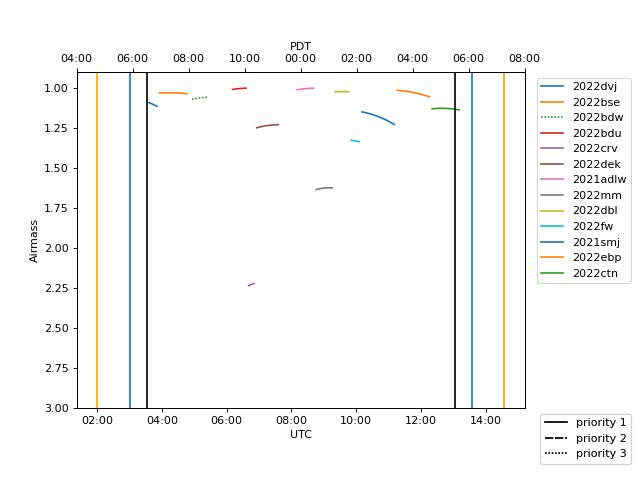
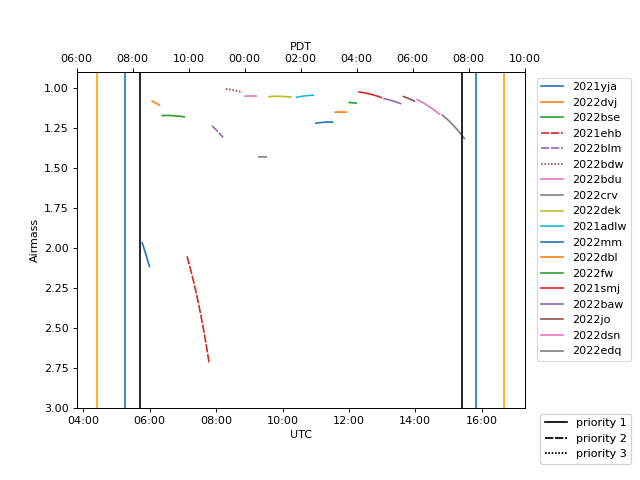
adding NIRES

diff --git a/make_schedule.py b/make_schedule.py
@@ -8,12 +8,15 @@ from astropy.coordinates import get_sun
 from scipy.interpolate import interp1d
 from matplotlib import cm
 import argparse
+import configparser
 
 
 def parse_args():
     parser = argparse.ArgumentParser(description='Schedule targets for the night for Shane (FIRST DRAFT).')
     parser.add_argument('targetlist',
                         help = 'YSE-PZ format schedule with priority column as in example file.')
+    parser.add_argument('instrument',
+            help = 'Instrument. Options: KAST, NIRES')
     parser.add_argument('--date', dest='date',
                         type = Time,
                         help = 'fmt: yyyy-mm-dd. Date of observations. Superseeds taking the time from the filename.')
@@ -32,26 +35,97 @@ def parse_args():
     parser.add_argument('--takesetting', dest='takesetting',
                         action='store_false',
                         help = 'Always take a target if setting.')
+    parser.add_argument('--start', dest='start',
+                        type = Time,
+                        help = 'fmt: yyyy-mm-dd hh:mm:ss (UTC). When to start observations')
+    parser.add_argument('--end', dest='end',
+                        type = Time,
+                        help = 'fmt: yyyy-mm-dd hh:mm:ss (UTC). When to finish observations.')
     args = parser.parse_args()
 
     return args
 
 
-def exposure_time(mag):
+def exposure_time(mag,data):
     #Calculates Exposure Times
-    data = np.loadtxt("exposure_kast.dat")
     exp = interp1d(data[:,0],data[:,1],kind="nearest",fill_value="extrapolate")
-    n_blue = interp1d(data[:,0],data[:,2],kind="nearest",fill_value="extrapolate")
-    n_red = interp1d(data[:,0],data[:,3],kind="nearest",fill_value="extrapolate")
-    exp_red = exp(mag)*60//n_red(mag)
-    exp_blue = exp(mag)*60//n_blue(mag) + 15*np.ceil(n_red(mag)/n_blue(mag))
-    return int(exp(mag)), n_red(mag), exp_red, n_blue(mag), exp_blue
+    #n_blue = interp1d(data[:,0],data[:,2],kind="nearest",fill_value="extrapolate")
+    #n_red = interp1d(data[:,0],data[:,3],kind="nearest",fill_value="extrapolate")
+    #exp_red = exp(mag)*60//n_red(mag)
+    #exp_blue = exp(mag)*60//n_blue(mag) + 15*np.ceil(n_red(mag)/n_blue(mag))
+    return int(exp(mag))#, n_red(mag), exp_red, n_blue(mag), exp_blue
 
+def fill_sched(schedu,df,start,end):
+    entry = pd.DataFrame.from_dict({
+        "target": [df["name"]],
+        "RA":  ["%s:%s:%s"%(df["ra_h"],df["ra_m"],df["ra_s"])],
+        "DEC": ["%s:%s:%s"%(df["dec_d"],df["dec_m"],df["dec_s"])],
+        "start":[start],
+        "end":[end],
+        "mag":[df["mag"]],
+        "priority":[df["priority"]]
+    })
+
+    schedu = pd.concat([schedu, entry], ignore_index=True)
+    return schedu
+
+def schedule(current_time,stop_time,df,target_list,schedu,dt,args):
+    priorities = list(set(df["priority"]))
+    while current_time < stop_time:
+        skipped_all=True
+        for i,target in df.iterrows():
+            if i in target_list:
+                continue
+            boundtime = min(args.min, args.min**(1+args.x)*(target["exp_time"].sec/60)**(-args.x)) + target["exp_time"].sec/60/2
+            boundtime = boundtime*u.min
+            if is_observable(current_time,target["exp_time"],target["set_time"]):
+                if args.takesetting:
+                    timediff = abs(target["top_time"] - current_time)
+                else:
+                    timediff = target["top_time"] - current_time
+                if boundtime > timediff:
+                    start = current_time
+                    current_time = current_time + target["exp_time"]
+                    end = current_time
+                    schedu = fill_sched(schedu,target,start,end)
+                    target_list.append(i)
+                    skipped_all=False
+                    current_time = current_time +dt
+                    #print(target['name'])
+                    #print(boundtime)#-target["exp_time"].sec/60/2*u.min)
+                    break
+        if skipped_all:
+            current_time = current_time + dt
+    return current_time,target_list,schedu
+
+def is_observable(time,dt,setting):
+    if time+dt < setting:
+        return True
+    else:
+        return False
+def is_setting(time,toptime):
+    if time >= toptime:
+        return True
+    else:
+        return False
+
+def gethour(time):
+    PDT = (time - 8*u.hour).ymdhms
+    PDT = "%02d:%02d"%(PDT[3],PDT[4])
+    UTC = time.ymdhms
+    utchour = float(UTC[3])+float(UTC[4])/60
+    UTC = "%02d:%02d"%(UTC[3],UTC[4])
+    return PDT,UTC, utchour
 
 def main():
     args = parse_args()
+    config = configparser.ConfigParser()
+    config.read('config.ini')
+    inst = args.instrument
     # Establish observatory, sunset and twighlights
-    lick_obs = EarthLocation(lat=37.341389*u.deg, lon=-121.642778*u.deg, height=1290*u.m)
+    obs = EarthLocation(lat=float(config[inst]['lat'])*u.deg,
+            lon=float(config[inst]['lon'])*u.deg, 
+            height=float(config[inst]['height'])*u.m)
     utcoffset = -8*u.hour  # Assuming Pacific Time (Lick)
     if args.date:
         midnight = args.date - utcoffset
@@ -61,7 +135,7 @@ def main():
 
     delta_midnight = np.linspace(-12, 12, 1000)*u.hour
     times = midnight + delta_midnight
-    frame = AltAz(obstime=times, location=lick_obs)
+    frame = AltAz(obstime=times, location=obs)
     sunaltazs = get_sun(times).transform_to(frame)
     alt0 = np.diff((sunaltazs.alt.value>0))
     alt12 = np.diff((sunaltazs.alt.value>-12))
@@ -75,7 +149,7 @@ def main():
     dt.format = 'sec'
     mins = round(dt.value/60)
     times = etwi12 + dt * np.linspace(0., 1., mins)
-    frame = AltAz(obstime=times, location=lick_obs)
+    frame = AltAz(obstime=times, location=obs)
 
     #Read in target list
     df = pd.read_csv(args.targetlist,delim_whitespace=True,skiprows=1, names= ["name","ra_h","ra_m","ra_s",'dec_d','dec_m','dec_s',"mag","priority"],usecols=[0,1,2,3,4,5,6,10,11])
@@ -101,7 +175,8 @@ def main():
         else:
             set_time.append(times[-1])
         alts.append(times[np.argmin(airmass)])
-        dt = TimeDelta(exposure_time(df.iloc[i]['mag'])[0]*u.min)
+        expdata = np.loadtxt(config[inst]['exp_file'])
+        dt = TimeDelta(exposure_time(df.iloc[i]['mag'],expdata)*u.min)
         dts.append(dt)
     df["exp_time"] = np.array(dts)
     df["top_time"] = np.array(alts)
@@ -116,16 +191,6 @@ def main():
     #df.sort_index(inplace=True)
     #df.index.name = "settingorder"
     df.sort_values(by=['priority','top_time'],ascending=[True,True],inplace=True)
-    def is_observable(time,dt,setting):
-        if time+dt < setting:
-            return True
-        else:
-            return False
-    def is_setting(time,toptime):
-        if time >= toptime:
-            return True
-        else:
-            return False
 
     current_time = times[0]
     dt = TimeDelta(5*u.min)
@@ -134,62 +199,12 @@ def main():
 
     sched = pd.DataFrame(columns=["target","RA","DEC","start","end","mag","priority"])
 
-    def fill_sched(schedu,df,start,end):
-        entry = pd.DataFrame.from_dict({
-            "target": [df["name"]],
-            "RA":  ["%s:%s:%s"%(df["ra_h"],df["ra_m"],df["ra_s"])],
-            "DEC": ["%s:%s:%s"%(df["dec_d"],df["dec_m"],df["dec_s"])],
-            "start":[start],
-            "end":[end],
-            "mag":[df["mag"]],
-            "priority":[df["priority"]]
-        })
-
-        schedu = pd.concat([schedu, entry], ignore_index=True)
-        return schedu
-
-    def schedule(current_time,stop_time,df,target_list,schedu):
-        priorities = list(set(df["priority"]))
-        while current_time < stop_time:
-            skipped_all=True
-            for i,target in df.iterrows():
-                if i in target_list:
-                    continue
-                boundtime = min(args.min, args.min**(1+x)*(target["exp_time"].sec/60)**(-x)) + target["exp_time"].sec/60/2
-                boundtime = boundtime*u.min
-                if is_observable(current_time,target["exp_time"],target["set_time"]):
-                    if args.takesetting:
-                        timediff = abs(target["top_time"] - current_time)
-                    else:
-                        timediff = target["top_time"] - current_time
-                    if boundtime > timediff:
-                        start = current_time
-                        current_time = current_time + target["exp_time"]
-                        end = current_time
-                        schedu = fill_sched(schedu,target,start,end)
-                        target_list.append(i)
-                        skipped_all=False
-                        current_time = current_time +dt
-                        #print(target['name'])
-                        #print(boundtime)#-target["exp_time"].sec/60/2*u.min)
-                        break
-            if skipped_all:
-                current_time = current_time + dt
-        return current_time,target_list,schedu
-
     twitar = df[df["mag"]<args.twimag]
-    current_time, target_list,sched = schedule(current_time,etwi18,twitar,target_list,sched)
-    current_time, target_list,sched = schedule(current_time,mtwi18,df,target_list,sched)
-    current_time, target_list,sched = schedule(current_time,times[-1],twitar,target_list,sched)
+    current_time, target_list,sched = schedule(current_time,etwi18,twitar,target_list,sched,dt,args)
+    current_time, target_list,sched = schedule(current_time,mtwi18,df,target_list,sched,dt,args)
+    current_time, target_list,sched = schedule(current_time,times[-1],twitar,target_list,sched,dt,args)
     print(sched)
 
-    def gethour(time):
-        PDT = (time - 8*u.hour).ymdhms
-        PDT = "%02d:%02d"%(PDT[3],PDT[4])
-        UTC = time.ymdhms
-        utchour = float(UTC[3])+float(UTC[4])/60
-        UTC = "%02d:%02d"%(UTC[3],UTC[4])
-        return PDT,UTC, utchour
 
     filename = args.targetlist.split(".")[0]
 
@@ -224,7 +239,7 @@ def main():
     for i,target in sched.iterrows():
         dt = target["end"] - target["start"]
         times = target["start"] + dt * np.linspace(0., 1., 100)
-        frame = AltAz(obstime=times, location=lick_obs)
+        frame = AltAz(obstime=times, location=obs)
         radec = "%s %s"%(target["RA"],target["DEC"])
         coords = SkyCoord(radec,unit=(u.hourangle, u.deg))
         targetaltazs = coords.transform_to(frame)
